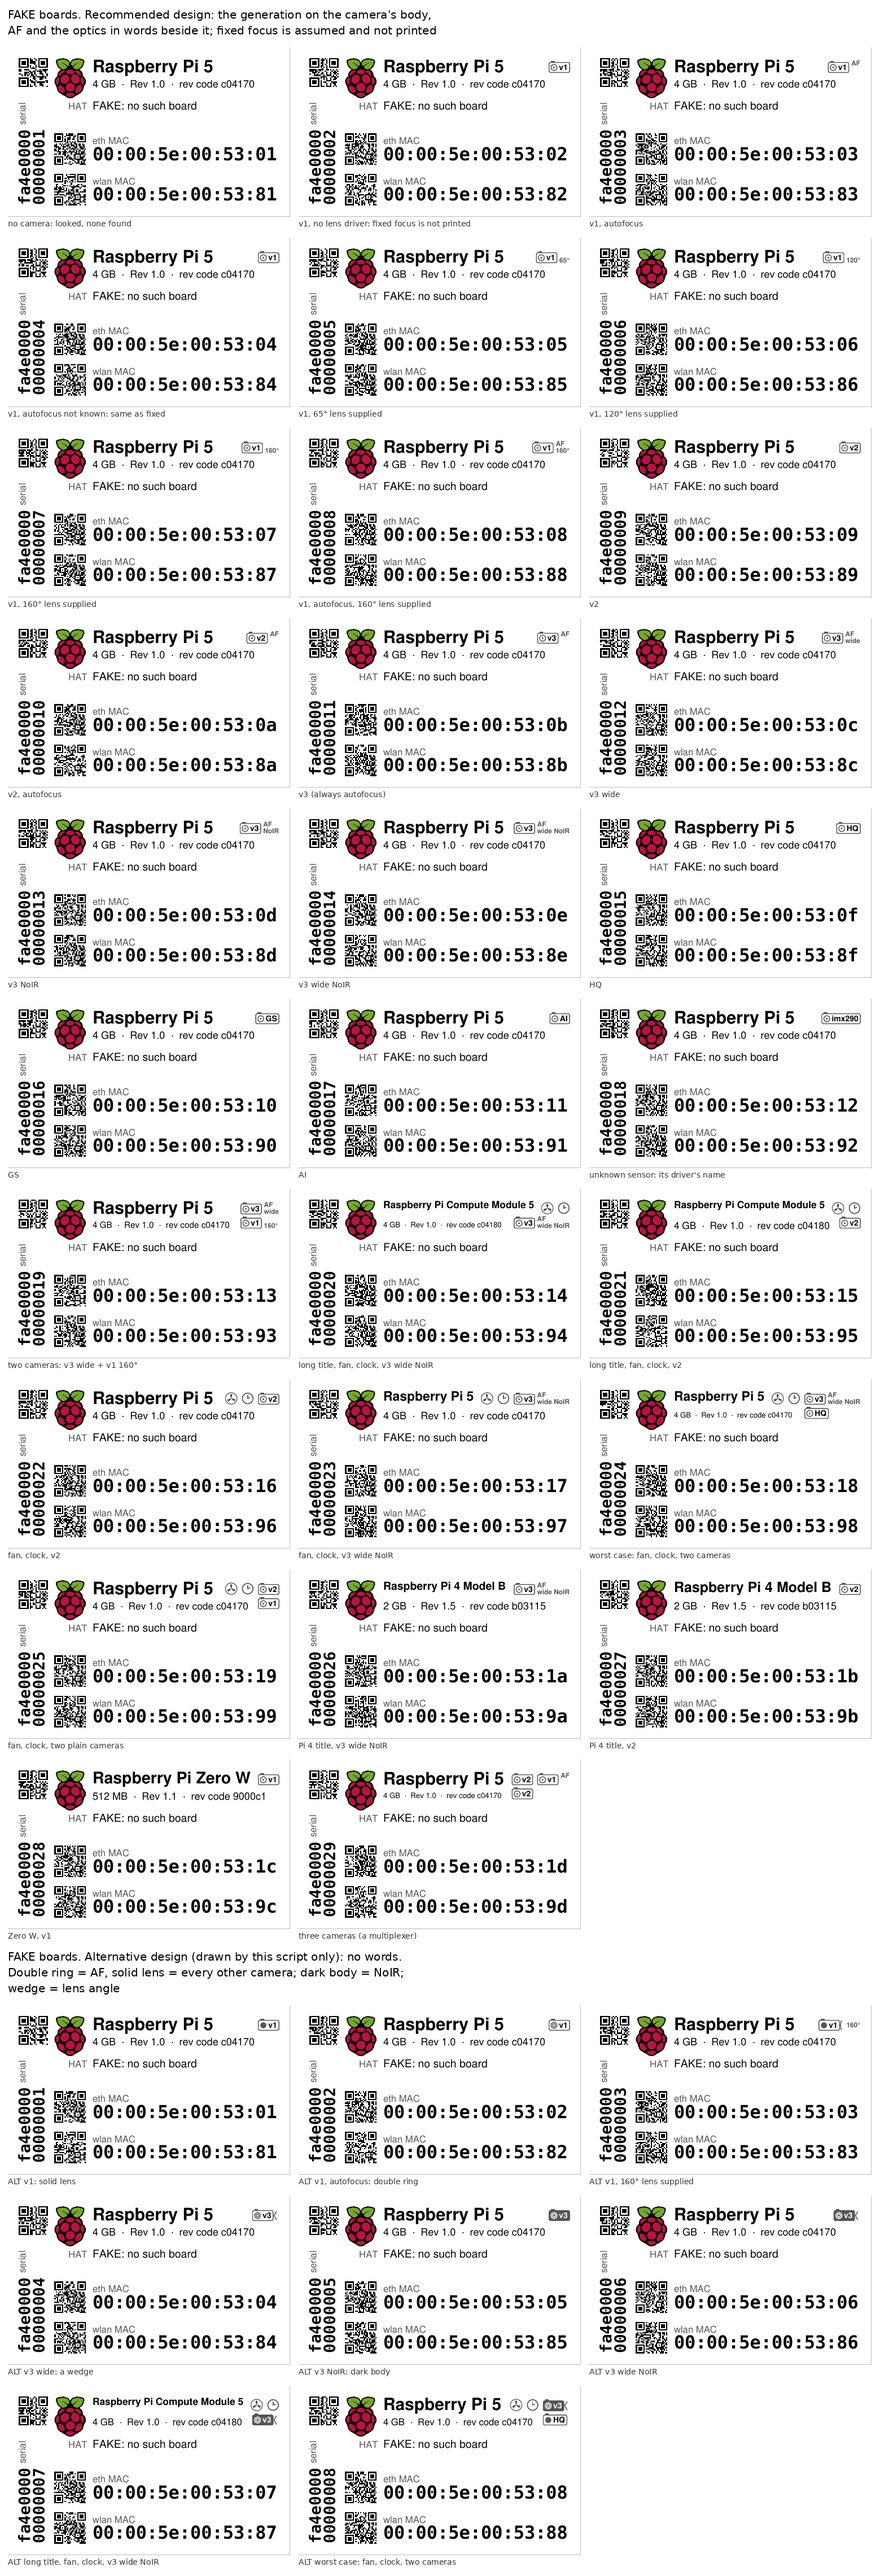
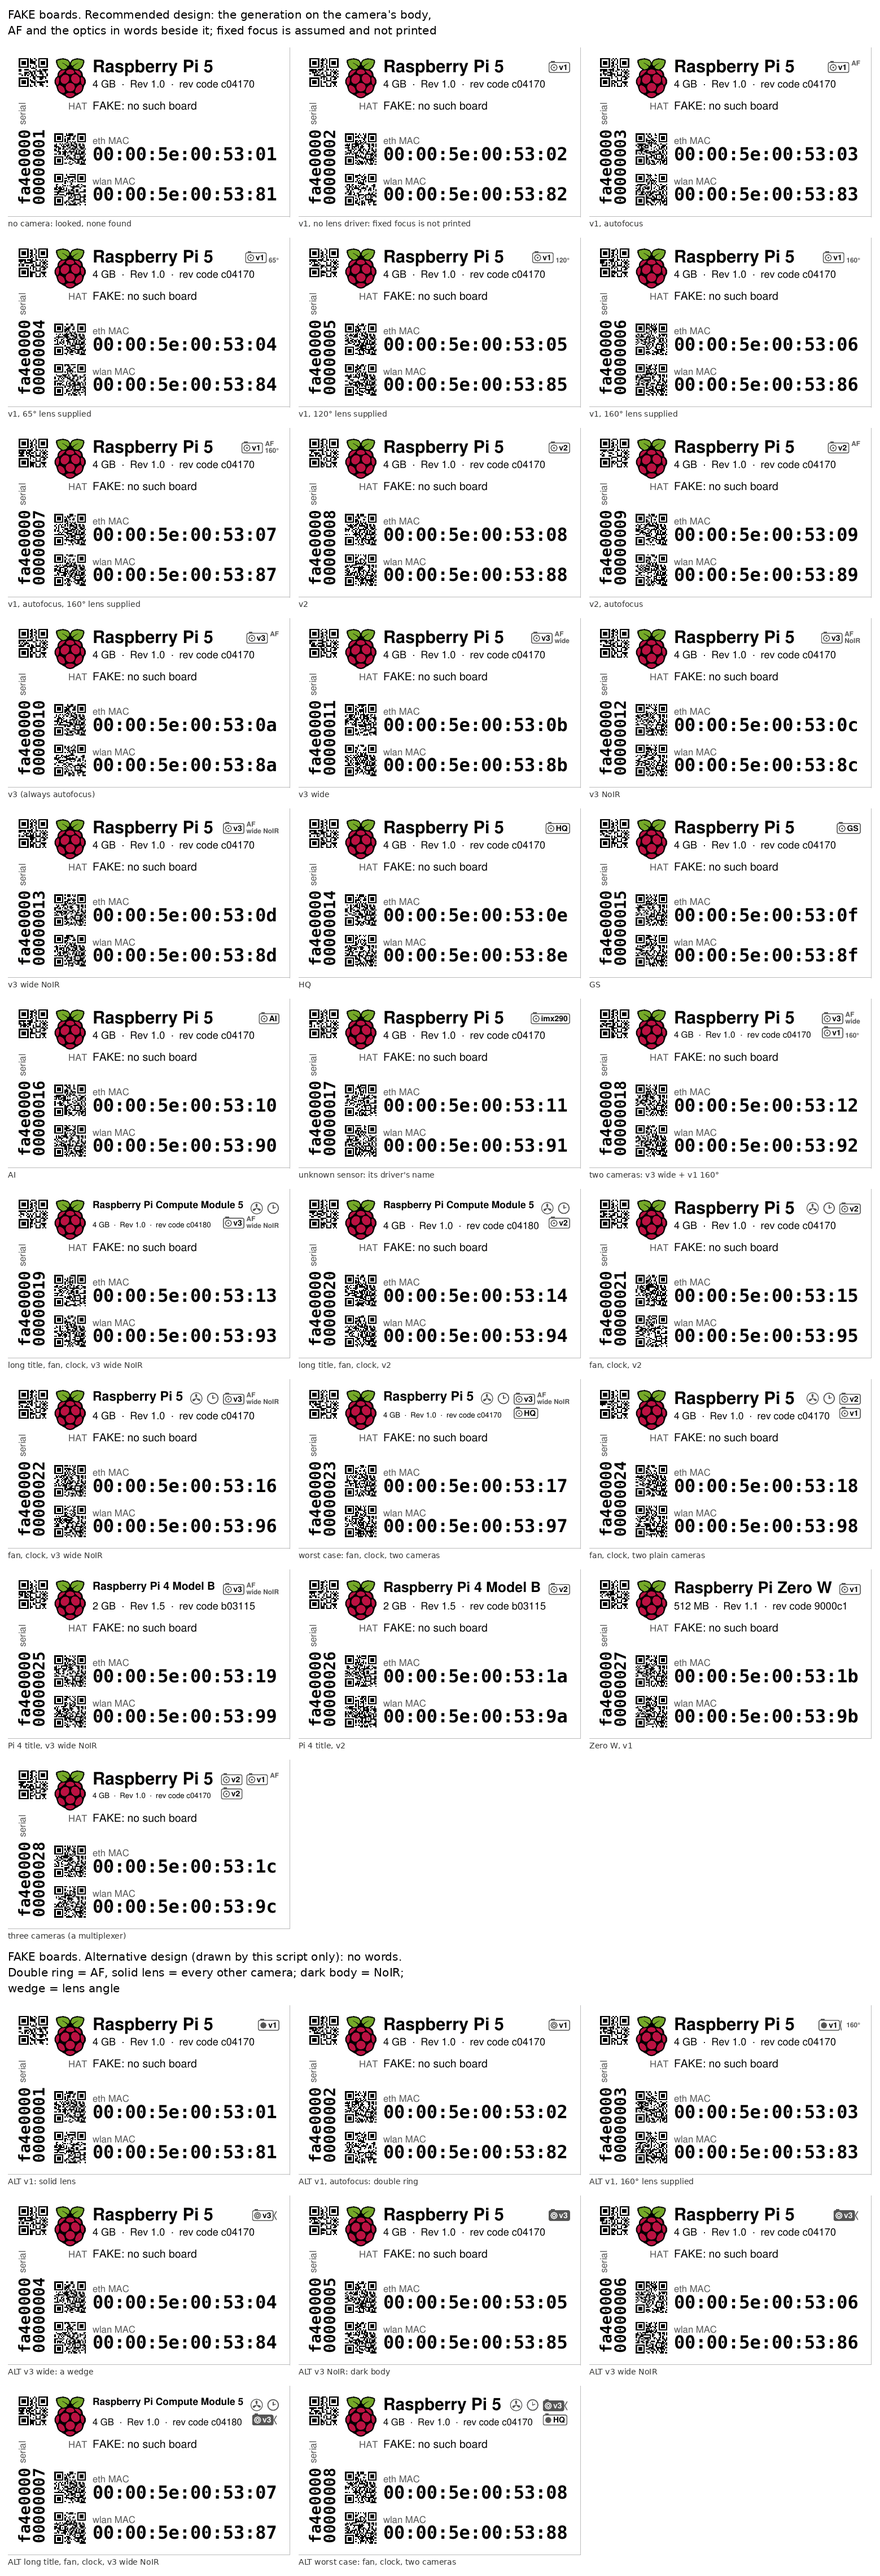
docs: an unsettled camera is refused; the example sheet drops it
Claude-Session: https://claude.ai/code/session_01SvEHPUfX5mnTmNxbGRFzyn

diff --git a/docs/examples/render_cameras.py b/docs/examples/render_cameras.py
@@ -41,7 +41,7 @@ ZERO_W = ("Raspberry Pi Zero W Rev 1.1", "9000c1")
 CM5 = ("Raspberry Pi Compute Module 5 Rev 1.0", "c04180")
 
 
-def cam(sensor, autofocus=None, variant=None, fov=None):
+def cam(sensor, autofocus=False, variant=None, fov=None):
     return {"sensor": sensor, "variant": variant, "autofocus": autofocus, "lens": None,
             "fov": fov}
 
@@ -54,7 +54,6 @@ SAMPLES = [
     ("v1, no lens driver: fixed focus is not printed", PI5, False, False,
      [cam("ov5647", False)]),
     ("v1, autofocus", PI5, False, False, [cam("ov5647", True)]),
-    ("v1, autofocus not known: same as fixed", PI5, False, False, [cam("ov5647")]),
     ("v1, 65° lens supplied", PI5, False, False, [cam("ov5647", False, fov=65)]),
     ("v1, 120° lens supplied", PI5, False, False, [cam("ov5647", False, fov=120)]),
     ("v1, 160° lens supplied", PI5, False, False, [cam("ov5647", False, fov=160)]),

diff --git a/docs/LABELS.md b/docs/LABELS.md
@@ -163,7 +163,7 @@ the title, next to the fan and clock marks, one for each camera:
 |---|---|
 | the letters on the camera's body | which camera: `v1` (ov5647), `v2` (imx219), `v3` (imx708), `HQ` (imx477), `GS` (imx296, global shutter), `AI` (imx500). Any other sensor is called by its driver's name, `imx290` |
 | `AF`, upper line beside it | a lens driver chip was found: the camera focuses itself |
-| no word there | fixed focus, which is what a camera is assumed to have and so is never printed: no lens driver was found, or nobody could look for one |
+| no word there | fixed focus, which is what a camera is assumed to have and so is never printed: the probe looked for a lens driver and found none. A camera it could not look for (powered down, or no sudo) is refused, not drawn as fixed |
 | `wide`, `NoIR`, `wide NoIR`, lower line | what a Camera Module 3 says of its own lens and filter; no other camera can say |
 | `65°`, `120°`, `160°`, lower line | the lens's field of view, where a person supplied it. Nothing on a camera reports it, so the probe never does |
 
@@ -171,7 +171,8 @@ A second camera goes under the first, on the subtitle's line, and the subtitle
 shrinks to leave it room; a third and fourth start another column. One camera
 beside a name already too long for its line (a Compute Module) drops to the
 subtitle's line as well, so the name is never cut short for it. A board with no
-camera, or one nobody looked at, carries no mark and no words about it.
+camera, or whose cameras nobody looked for (the `--pi-only` read), carries no
+mark and no words about it.
 
 <p>
 <img src="https://raw.githubusercontent.com/mithro/rpi-hwid/main/docs/examples/camera-icons-zoom.png" alt="The title band of labels for fake boards, one for each thing a camera mark can say" width="98%">
